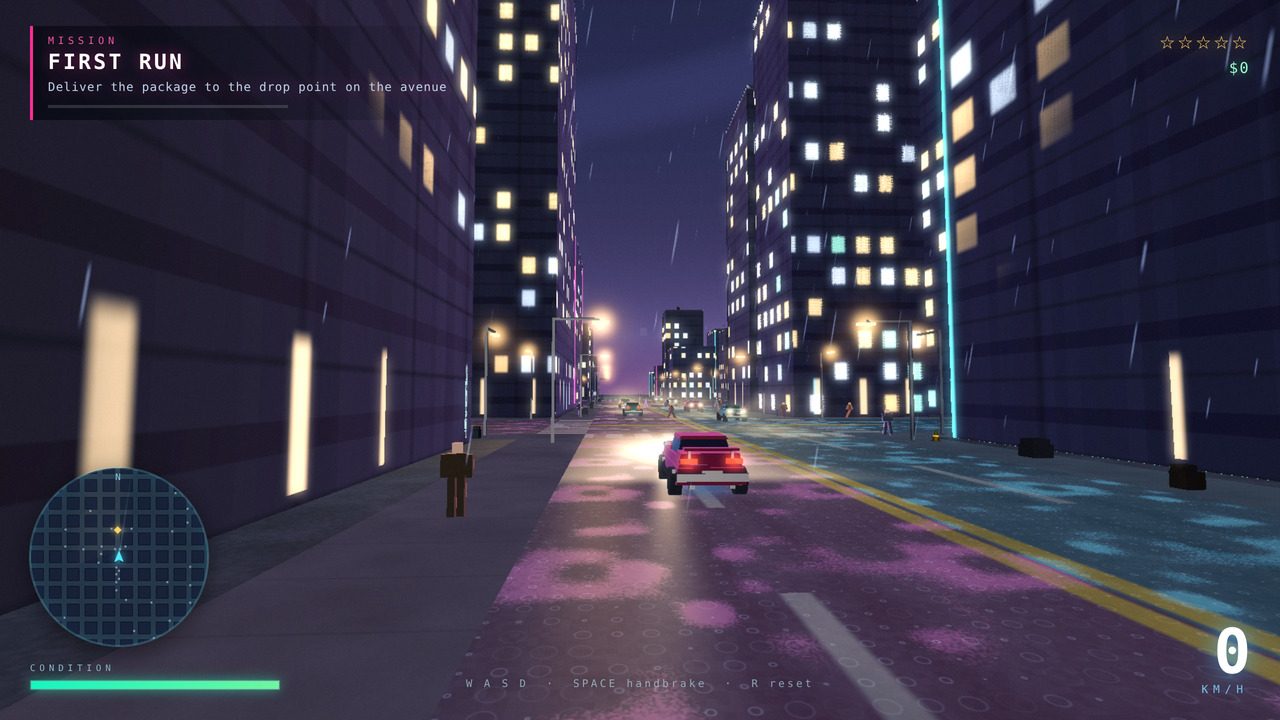
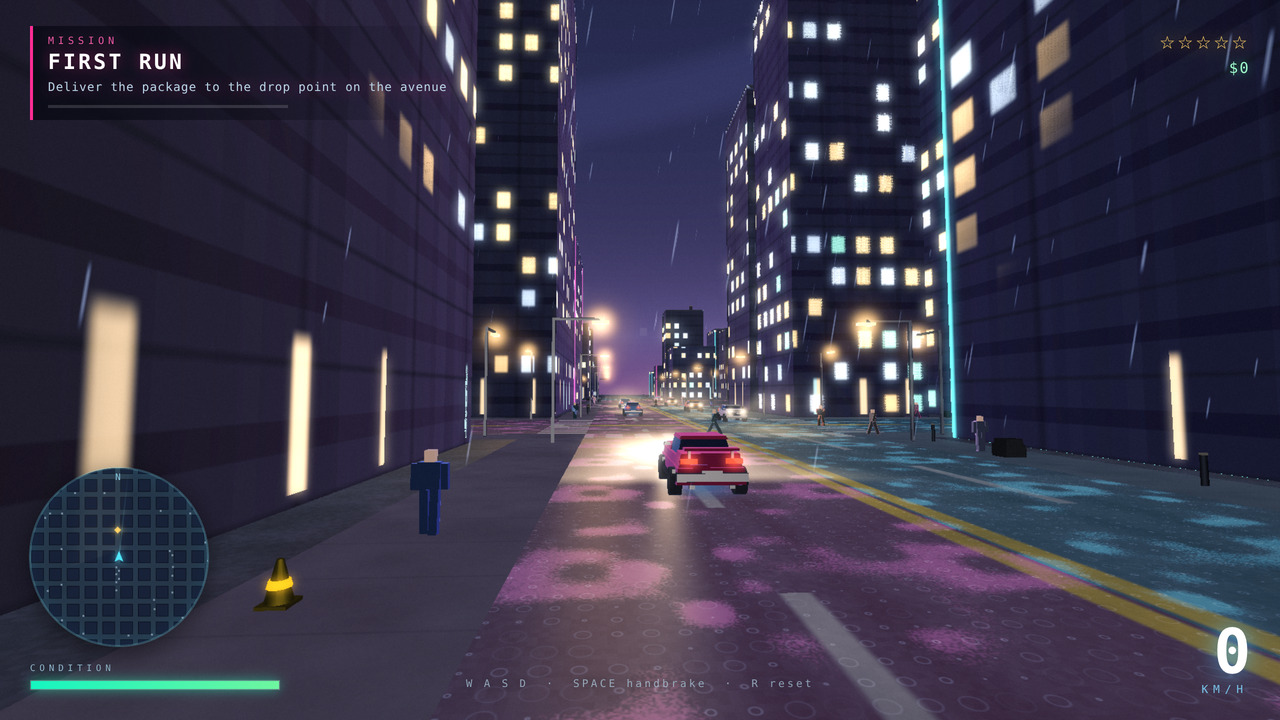
Night City: more pedestrians, denser street furniture, larger radar

diff --git a/game/src/props.js b/game/src/props.js
@@ -274,7 +274,7 @@ export function buildStreetProps(rng, { block: B, halfRoad, walk, reach: R }) {
       if (Math.abs(along) > R * B + 4) continue;
       if (Math.abs(along - Math.round(along / B) * B) < halfRoad + 1.2) continue;
       for (const side of [-1, 1]) {
-        if (rng.float(0, 1) > 0.52) continue;
+        if (rng.float(0, 1) > 0.62) continue;
         const off = side * (halfRoad + rng.float(0.75, walk - 0.35));
         const kind = pickKind(rng.float(0, 1));
         const yaw = Math.round(rng.float(0, 4)) * (Math.PI / 2);

diff --git a/game/src/city.js b/game/src/city.js
@@ -391,7 +391,7 @@ void main() {
   float hSide = abs(hp.x * uHeadDir.y - hp.y * uHeadDir.x);
   float wedge = smoothstep(0.0, 2.2, hFwd) * smoothstep(30.0, 6.0, hFwd);
   wedge *= smoothstep(8.5, 1.2, hSide + max(hFwd, 0.0) * 0.30);
-  col += vec3(1.0, 0.93, 0.76) * wedge * uHeadOn * (0.30 + wet * 0.60);
+  col += vec3(1.0, 0.93, 0.76) * wedge * uHeadOn * (0.36 + wet * 0.70);
 
   // Standing water. Where the noise field says a puddle sits, the asphalt turns
   // into a shallow mirror that picks up the sky and the neon hanging above it.

diff --git a/game/src/main.js b/game/src/main.js
@@ -63,7 +63,7 @@ export class Game {
     this.input = new Input();
     // A crowd on the pavements and a radar on the dash: the two things that make
     // a street feel inhabited rather than rendered.
-    this.peds = new Pedestrians(this.renderer.gl, this.rng, 64);
+    this.peds = new Pedestrians(this.renderer.gl, this.rng, 96);
     this.minimap = new Minimap(this.hud.root);
     this.missions = new Missions(this);
     this.missions.start(0);

diff --git a/game/src/minimap.js b/game/src/minimap.js
@@ -27,7 +27,7 @@ const CSS = `
 `;
 
 export class Minimap {
-  constructor(parent, size = 178) {
+  constructor(parent, size = 192) {
     const style = document.createElement('style');
     style.textContent = CSS;
     document.head.appendChild(style);
